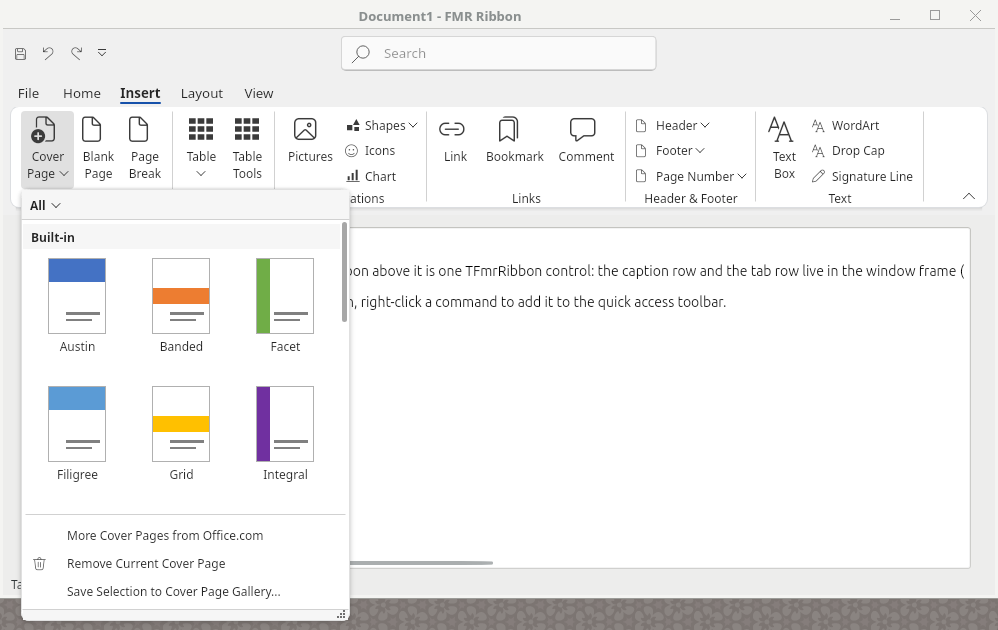
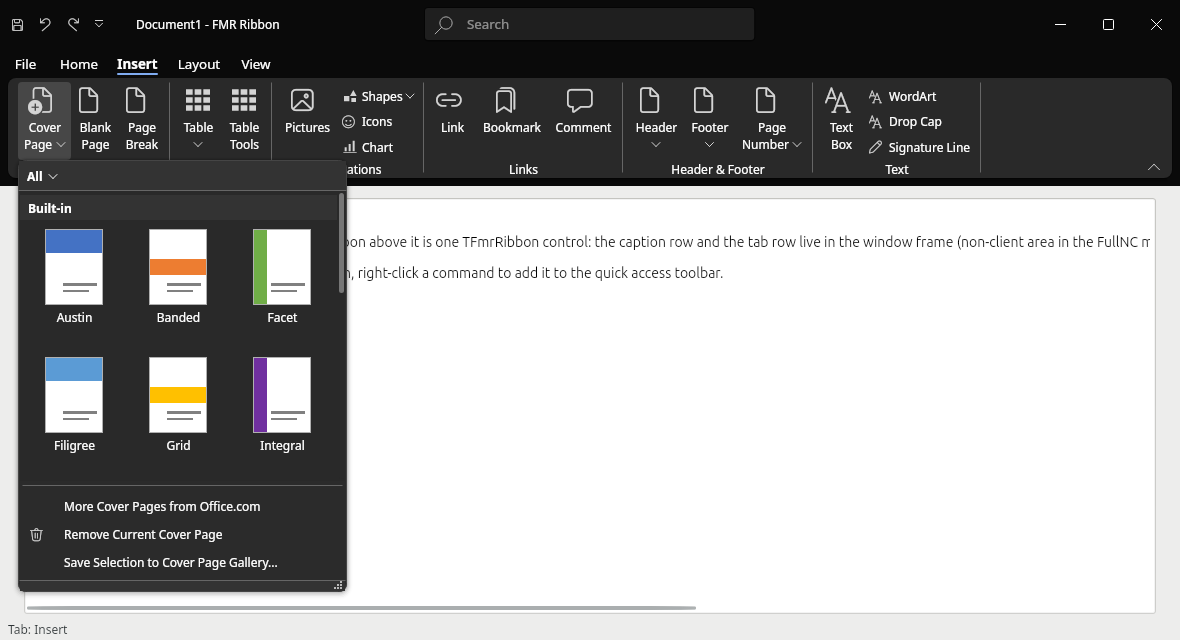
Linux screenshots with the integrated title bar (FMXWayland windowframe branch, real IFMXWaylandWindowFrame): Office 2024 Light, Office 2024 Dark with a drop-down gallery, Office 365 Colorful; README and LINUX.md

diff --git a/Docs/LINUX.md b/Docs/LINUX.md
@@ -1,4 +1,4 @@
-# FMR Ribbon on Linux (FMXWayland)
+# FMR Ribbon on Linux (FMXWayland)
 
 FMR Ribbon runs on Linux under FMXWayland, a native Wayland backend of FireMonkey written in Object Pascal that
 replaces Embarcadero's closed `libfmux` (GTK) — a separate MIT project of the same author; see its `README.md`. FMX draws with its Skia
@@ -6,12 +6,17 @@ canvas, windows and popups are Wayland `xdg_toplevel`/`xdg_popup` surfaces. Ever
 compiles with `dcclinux64`; `Demos\RibbonBasic` and `Demos\Showcase` build and run (checked on a headless Weston 14
 in WSL, screenshots below).
 
-![RibbonBasic on Linux under FMXWayland's title bar](images/linux/ribbonbasic-office2024light.png)
+![RibbonBasic on Linux: the caption row and the tab row in place of the title bar](images/linux/ribbonbasic-office2024light.png)
 
 | | |
 |---|---|
-| ![Gallery drop-down as an xdg_popup](images/linux/gallery-dropdown.png) | ![Integrated title bar preview](images/linux/titlebar-preview.png) |
-| Insert > Cover Page: drop-down gallery (filter, groups, owner-drawn pages, commands, grip) — an `xdg_popup` | The integrated title bar (`/waylandframe=preview`, see [the frame contract](#the-window-frame-contract-ifmxwaylandwindowframe)) |
+| ![Office 2024 Dark, a drop-down gallery](images/linux/gallery-dropdown.png) | ![Office 365 Colorful](images/linux/office365colorful.png) |
+| Office 2024 Dark, Insert > Cover Page: the drop-down gallery is an `xdg_popup` | Office 365 Colorful |
+
+The pictures are frame dumps of a headless Weston (2026-10-14), with FMXWayland's `windowframe` branch: the
+ribbon draws the title bar through [the frame service](#the-window-frame-contract-ifmxwaylandwindowframe) (no
+`/waylandframe=preview`, no `FMXWAYLAND_CSD=0`). With FMXWayland's `main` (until the branch is merged) the
+ribbon sits under FMXWayland's own title bar.
 
 ## Requirements
 

diff --git a/README.md b/README.md
@@ -72,7 +72,11 @@ The same ribbon (`Demos\RibbonBasic`, FullNC frame) in 13 of the 21 built-in the
 
 ## Linux
 
-![RibbonBasic on Linux](Docs/images/linux/ribbonbasic-office2024light.png)
+![RibbonBasic on Linux: the caption row and the tab row in place of the title bar](Docs/images/linux/ribbonbasic-office2024light.png)
+
+| | |
+|---|---|
+| ![Office 2024 Dark, a drop-down gallery](Docs/images/linux/gallery-dropdown.png) | ![Office 365 Colorful](Docs/images/linux/office365colorful.png) |
 
 FMR Ribbon runs on Linux on FMXWayland (a native Wayland platform for FMX without libfmux; Skia canvas):
 
@@ -83,9 +87,10 @@ FMR Ribbon runs on Linux on FMXWayland (a native Wayland platform for FMX withou
 
 The program sets `GlobalUseSkia := True` and ships `libsk4d.so` and `fonts/FmrFluentIcons.ttf` (build.ps1 copies
 them). Themes fall back to an installed UI font (Noto Sans, Cantarell, DejaVu Sans…), Segoe icon codes are drawn from
-the bundled icon font, the font list comes from fontconfig. The ribbon sits under FMXWayland's title bar (no second
-title); putting its caption and tab rows into the title bar needs a small platform service that FMXWayland does not
-have yet — the contract, `IFMXWaylandWindowFrame`, and the rest are in `Docs\LINUX.md`.
+the bundled icon font, the font list comes from fontconfig. With FMXWayland's window frame service
+(`IFMXWaylandWindowFrame`, in its `windowframe` branch until it is merged) the caption row and the tab row take the
+place of the title bar, as in the pictures above (the window is moved, resized, maximized and given its window menu
+by the compositor); without it the ribbon sits under FMXWayland's own title bar. Details in `Docs\LINUX.md`.
 
 ## Installation
 
